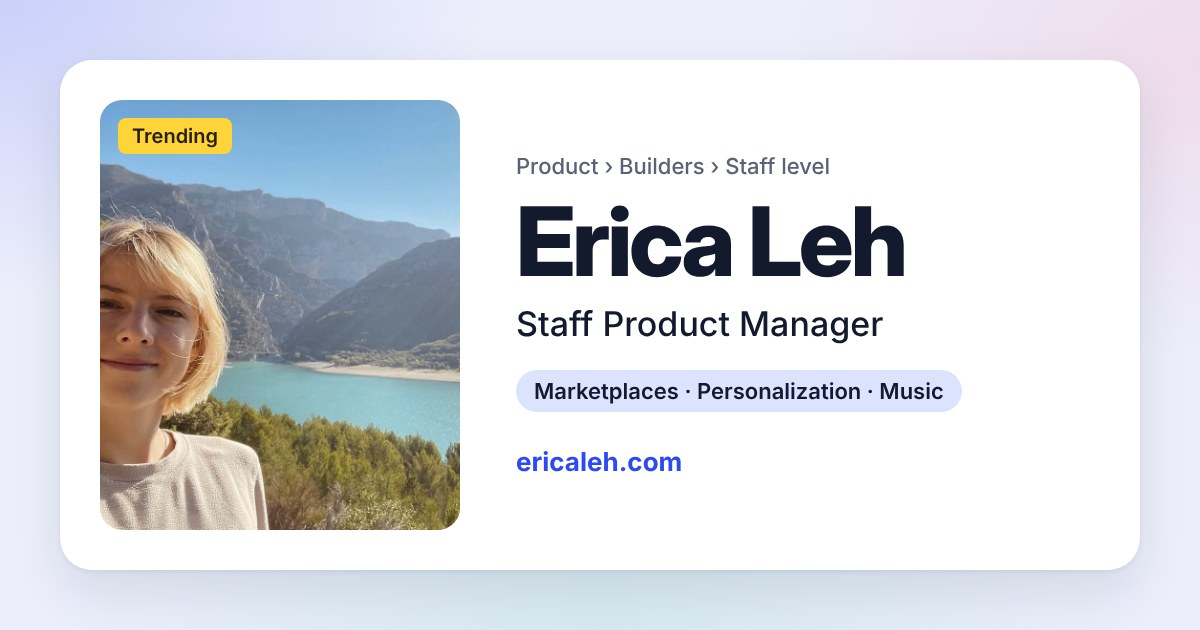
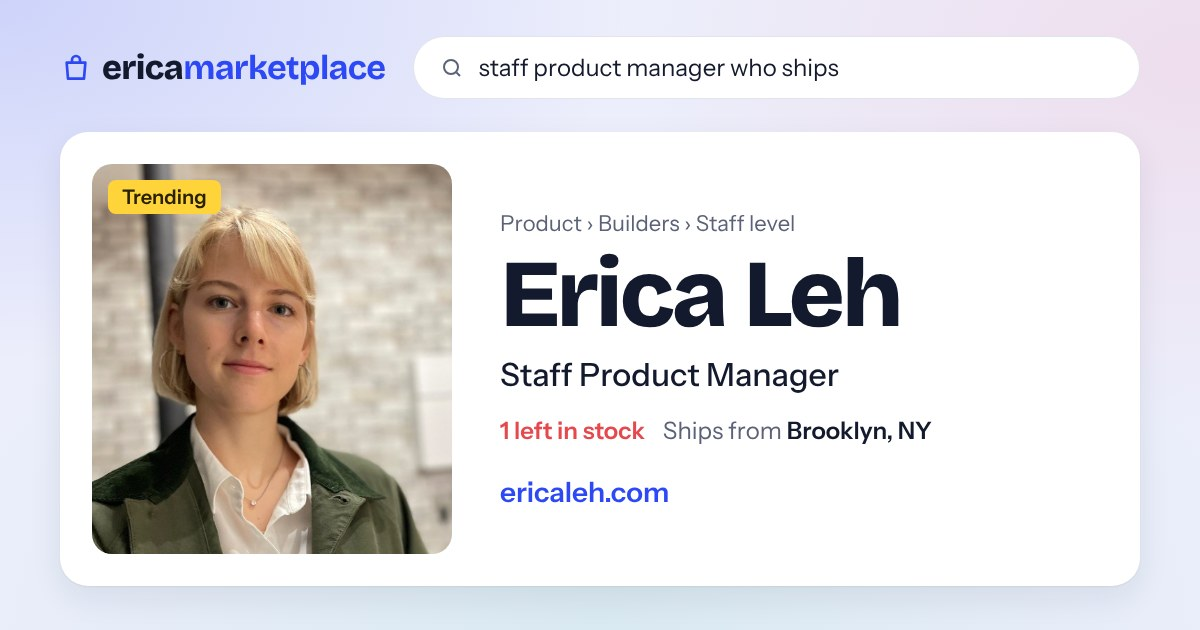
Update site to marketplace design and new social preview image

diff --git a/index.html b/index.html
@@ -58,9 +58,11 @@ h1,h2,h3{font-family:var(--display);text-wrap:balance;margin:0}
 .top{position:sticky;top:env(safe-area-inset-top,0px);z-index:5;background:var(--surface);border-bottom:1px solid var(--line)}
 .top .wrap{display:flex;align-items:center;gap:14px;padding-block:12px}
 .brand{font-family:var(--display);font-weight:800;font-size:20px;letter-spacing:-.02em;white-space:nowrap}
-.brand b{color:var(--accent)}
+.brand{display:flex;align-items:center;gap:6px}
+.brand .bag{flex:none;color:var(--accent)}
+.brand b{color:var(--accent);font-weight:500}
 .search{flex:1;min-width:0;display:flex;align-items:center;gap:8px;background:var(--bg);border:1px solid var(--line);border-radius:999px;padding:8px 14px}
-.search input{flex:1;min-width:0;border:0;background:transparent;font:inherit;color:var(--ink);outline:none}
+.search input{flex:1;min-width:0;text-overflow:ellipsis;cursor:default;border:0;background:transparent;font:inherit;color:var(--ink);outline:none}
 .search svg{flex:none;color:var(--muted)}
 .iconbtn{position:relative;display:grid;place-items:center;width:40px;height:40px;border-radius:999px;border:1px solid var(--line);background:var(--surface)}
 .iconbtn:hover{border-color:var(--ink)}
@@ -82,7 +84,6 @@ h1,h2,h3{font-family:var(--display);text-wrap:balance;margin:0}
 .photo .floating{position:absolute;top:10px;right:10px;display:flex;flex-direction:column;gap:8px}
 .round{width:40px;height:40px;border-radius:999px;border:0;background:var(--surface);display:grid;place-items:center;box-shadow:var(--shadow)}
 .round[aria-pressed="true"] .heart-path{fill:var(--heart);stroke:var(--heart)}
-.round[aria-pressed="true"] .bm-path{fill:var(--accent);stroke:var(--accent)}
 .pop{animation:pop .35s ease}
 @keyframes pop{40%{transform:scale(1.25)}100%{transform:scale(1)}}
 .thumbs{display:flex;gap:8px;margin-top:10px}
@@ -97,7 +98,7 @@ h1,h2,h3{font-family:var(--display);text-wrap:balance;margin:0}
 .meta{display:flex;flex-wrap:wrap;gap:6px 14px;font-size:14px;color:var(--muted)}
 .meta strong{color:var(--ink)}
 .pill{display:inline-flex;align-items:center;gap:6px;border-radius:999px;font-size:12px;font-weight:600;padding:3px 10px;background:var(--tile2);color:var(--ink)}
-.pills{display:inline-flex;flex-wrap:wrap;gap:6px}
+.lowstock{color:var(--heart);font-weight:600}
 .pill.ok{background:var(--tile3)}
 .pill.blue{background:var(--tile1)}
 .pitch{max-width:62ch;margin:0;color:var(--ink);padding-left:18px;display:grid;gap:6px}
@@ -107,12 +108,12 @@ h1,h2,h3{font-family:var(--display);text-wrap:balance;margin:0}
 .specs dd{margin:2px 0 0;font-weight:600;font-variant-numeric:tabular-nums}
 
 .buybox{margin-top:14px;background:var(--surface);border:1px solid var(--line);border-radius:20px;box-shadow:var(--shadow);padding:16px 24px;display:grid;grid-template-columns:auto minmax(0,1fr);align-items:center;gap:10px 36px}
-.strip-main{display:flex;align-items:center;gap:18px;flex-wrap:wrap}
 .buybox .ship{grid-template-columns:repeat(3,minmax(0,1fr));gap:4px 24px}
 .ship>div{display:flex;gap:8px;align-items:flex-start}
 .ship .ico{flex:none;width:16px;height:16px;margin-top:1px;fill:none;stroke:var(--accent);stroke-width:1.8;stroke-linecap:round;stroke-linejoin:round}
 .ship .ico circle{fill:var(--surface)}
-.buybox .sku{grid-column:2;justify-self:end}
+.buybox{grid-template-columns:1fr}
+.buybox .sku{grid-column:1;justify-self:end}
 .price{font-family:var(--display);font-size:24px;font-weight:700;letter-spacing:-.02em}
 .price small{display:block;font-family:var(--body);font-size:13px;font-weight:400;color:var(--muted);letter-spacing:0}
 .stock{color:var(--ok);font-weight:600}
@@ -121,6 +122,10 @@ h1,h2,h3{font-family:var(--display);text-wrap:balance;margin:0}
 .btn.dark{background:var(--ink);color:var(--surface)}
 .btn.dark:hover{filter:none;opacity:.88}
 .ctas .btn{flex:1 1 auto}
+.namerow{display:flex;align-items:center;flex-wrap:wrap;gap:10px 16px}
+.contact{display:flex;gap:8px}
+.iconlink{display:grid;place-items:center;width:36px;height:36px;border-radius:999px;border:1px solid var(--line);background:var(--surface);color:var(--ink);box-sizing:border-box}
+.iconlink:hover{border-color:var(--ink)}
 .btn.ghost:hover{border-color:var(--ink);filter:none}
 .btn.primary{background:var(--accent);color:var(--accent-ink)}
 .btn.secondary{background:var(--deal);color:var(--deal-ink)}
@@ -154,7 +159,8 @@ h1,h2,h3{font-family:var(--display);text-wrap:balance;margin:0}
 .card .art.logo img{max-width:62%;max-height:64px;object-fit:contain;margin-top:14px}
 .card .art.logo .tag{background:rgba(255,255,255,.75);color:#141A2E}
 .card .art.logo{border-bottom:0}
-.card[data-id="w-yale"] .art.logo img{max-height:44px}
+.card[data-id="w-yale"] .art.logo img{max-height:34px}
+.card[data-id="w-groover"] .art.logo img{max-height:48px}
 .card[data-id="p-onset"] .art.logo img{max-height:128px;max-width:80%;margin-top:6px}
 .card[data-id="p-crate"] .art.logo img{max-height:44px;margin-top:18px}
 .card .art{overflow:hidden}
@@ -183,7 +189,14 @@ h1,h2,h3{font-family:var(--display);text-wrap:balance;margin:0}
 .quick{color:var(--accent);font-weight:600;font-size:13px;white-space:nowrap}
 .empty{color:var(--muted);font-size:14px;padding:16px 0}
 
-/* drawer + lists */
+/* chat pop-up */
+.scrim.center{justify-content:center;align-items:center;padding:16px}
+.modal{position:relative;width:min(380px,100%);background:var(--surface);border-radius:20px;box-shadow:var(--shadow);padding:28px 24px 24px;display:grid;gap:16px;text-align:center}
+.modal h3{font-size:24px;letter-spacing:-.02em}
+.modal .close{position:absolute;top:10px;right:10px}
+.modal .ctas .btn{padding:10px 16px}
+
+/* drawer */
 .scrim{position:fixed;inset:0;background:rgba(10,14,28,.45);z-index:20;display:flex;justify-content:flex-end}
 .drawer{width:min(460px,100%);height:100%;background:var(--surface);overflow-y:auto;padding:24px max(20px,env(safe-area-inset-right,0px)) calc(24px + env(safe-area-inset-bottom,0px)) 20px;display:flex;flex-direction:column;gap:14px;animation:slide .22s ease}
 @keyframes slide{from{transform:translateX(30px);opacity:.4}}
@@ -207,12 +220,19 @@ footer .wrap{display:flex;flex-wrap:wrap;justify-content:space-between;gap:10px}
 
 @media (max-width:980px){.listing{grid-template-columns:minmax(0,260px) minmax(0,1fr)}.buybox{grid-template-columns:1fr}.buybox .ship{grid-template-columns:1fr}.buybox .sku{grid-column:1;justify-self:start}}
 @media (max-width:640px){
+  .top .wrap:not(.chips){flex-wrap:wrap;row-gap:10px}
+  .brand{flex:1}
+  .search{order:3;flex:1 1 100%}
   .listing{grid-template-columns:1fr;padding:16px;gap:18px}
   .listing{grid-template-columns:84px minmax(0,1fr);column-gap:14px;row-gap:12px}
   .listing>div:first-child{grid-column:1;grid-row:1 / span 3;align-self:center}
   .info{display:contents}
   .info>*{grid-column:1 / -1}
-  .info>.crumbs,.info>h1,.info>.subtitle{grid-column:2}
+  .info>.crumbs,.info>h1,.info>.namerow,.info>.subtitle{grid-column:2}
+  .namerow{gap:8px;flex-wrap:nowrap}
+  .contact{gap:6px}
+  .iconlink{width:30px;height:30px}
+  .iconlink svg{width:15px;height:15px}
   .info h1{font-size:34px}
   .info .subtitle{font-size:16px}
   .photo{width:84px;max-width:84px;aspect-ratio:1/1;margin:0;overflow:visible;background:none}
@@ -233,19 +253,19 @@ footer .wrap{display:flex;flex-wrap:wrap;justify-content:space-between;gap:10px}
 
 <header class="top">
   <div class="wrap">
-    <div class="brand">erica<b>.</b></div>
-    <div style="flex:1"></div>
-    <button class="iconbtn" id="openSaved" aria-label="Your saved lists">
-      <svg width="18" height="18" viewBox="0 0 24 24" fill="none" stroke="currentColor" stroke-width="2"><path d="M6 3h12v18l-6-4-6 4z"/></svg>
-    </button>
+    <div class="brand"><svg class="bag" width="22" height="22" viewBox="0 0 24 24" fill="none" stroke="currentColor" stroke-width="2" stroke-linecap="round" stroke-linejoin="round" aria-hidden="true"><path d="M5 8h14l-1 12H6z"/><path d="M9 8V6a3 3 0 0 1 6 0v2"/></svg><span>erica<b>marketplace</b></span></div>
+    <label class="search">
+      <svg width="16" height="16" viewBox="0 0 24 24" fill="none" stroke="currentColor" stroke-width="2" aria-hidden="true"><circle cx="11" cy="11" r="7"/><path d="m20 20-3.5-3.5"/></svg>
+      <input type="search" value="staff product manager who ships" readonly aria-label="Search">
+    </label>
   </div>
   <div class="wrap chips" role="toolbar" aria-label="Filter shelves">
     <button class="chip" data-filter="all" aria-pressed="true">All</button>
-    <button class="chip" data-filter="skills" aria-pressed="false">Skills</button>
-    <button class="chip" data-filter="work" aria-pressed="false">Previous experience</button>
-    <button class="chip" data-filter="products" aria-pressed="false">Work projects</button>
+    <button class="chip" data-filter="products" aria-pressed="false">Projects you might like</button>
+    <button class="chip" data-filter="skills" aria-pressed="false">Top-rated skills</button>
+    <button class="chip" data-filter="work" aria-pressed="false">Product history</button>
     <button class="chip" data-filter="projects" aria-pressed="false">Side projects</button>
-    <button class="chip" data-filter="hobbies" aria-pressed="false">Hobbies & interests</button>
+    <button class="chip" data-filter="hobbies" aria-pressed="false">Bonus features</button>
   </div>
 </header>
 
@@ -261,43 +281,38 @@ footer .wrap{display:flex;flex-wrap:wrap;justify-content:space-between;gap:10px}
           <button class="round" id="heroHeart" aria-pressed="false" aria-label="Like Erica's profile">
             <svg width="20" height="20" viewBox="0 0 24 24"><path class="heart-path" d="M12 20s-7-4.4-7-10a4 4 0 0 1 7-2.6A4 4 0 0 1 19 10c0 5.6-7 10-7 10z" fill="none" stroke="currentColor" stroke-width="2"/></svg>
           </button>
-          <button class="round" id="heroSave" aria-pressed="false" aria-label="Save Erica to a list">
-            <svg width="20" height="20" viewBox="0 0 24 24"><path class="bm-path" d="M6 3h12v18l-6-4-6 4z" fill="none" stroke="currentColor" stroke-width="2"/></svg>
-          </button>
         </div>
       </div>
     </div>
 
     <div class="info">
       <div class="crumbs">Product › Builders › Staff level</div>
-      <h1>Erica Leh</h1>
+      <div class="namerow">
+        <h1>Erica Leh</h1>
+        <div class="contact">
+          <a class="iconlink" href="mailto:eleh915@gmail.com" aria-label="Email me" title="Email me"><svg width="16" height="16" viewBox="0 0 24 24" fill="none" stroke="currentColor" stroke-width="2.2" aria-hidden="true"><rect x="3" y="5" width="18" height="14" rx="2"/><path d="m3 7 9 6 9-6"/></svg></a>
+          <a class="iconlink" href="https://linkedin.com/in/ericaleh" target="_blank" rel="noopener" aria-label="LinkedIn" title="LinkedIn"><svg width="18" height="18" viewBox="0 0 24 24" aria-hidden="true"><rect width="24" height="24" rx="4" fill="#0A66C2"/><path fill="#fff" d="M6.94 5.5a1.69 1.69 0 1 1 0 3.38 1.69 1.69 0 0 1 0-3.38zM5.5 10h2.88v8.5H5.5zM10.2 10h2.76v1.16h.04c.38-.73 1.32-1.5 2.73-1.5 2.92 0 3.46 1.92 3.46 4.42v4.42h-2.88v-3.92c0-.94-.02-2.14-1.3-2.14-1.31 0-1.51 1.02-1.51 2.07v3.99H10.2z"/></svg></a>
+        </div>
+      </div>
       <div class="subtitle">Staff Product Manager</div>
       <div class="meta">
-        <span class="pills"><span class="pill blue">Marketplaces</span><span class="pill blue">Personalization</span><span class="pill blue">Music</span></span>
+        <span class="lowstock">1 left in stock</span>
         <span>Ships from <strong>Brooklyn, NY</strong></span>
       </div>
       <ul class="pitch">
-        <li>Track record of launching new revenue streams, driving activation and retention, and leading product strategy in a data-driven and research-focused manner</li>
-        <li>Experience coding and creating prototypes and apps in Python, PostgreSQL, R, C, Claude Code, Cursor, and Figma</li>
+        <li>Track record of launching new revenue streams and leading product strategy in a data-driven and research-focused manner</li>
+        <li>Analysis and products reaching 400M+ users</li>
+        <li>Experience coding and creating prototypes/apps in Claude Code, Figma, Cursor, Python, PostgreSQL, R, and C</li>
       </ul>
       <dl class="specs">
         <div><dt>Experience</dt><dd>11 years · 3 companies</dd></div>
-        <div><dt>Users reached</dt><dd>400M+ at Spotify</dd></div>
-        <div><dt>Builds with</dt><dd>Claude Code, Cursor, Figma, Python, SQL</dd></div>
         <div><dt>Education</dt><dd>Yale BA, magna cum laude</dd></div>
       </dl>
     </div>
 
   </section>
 
-  <aside class="buybox" aria-label="Contact">
-    <div class="strip-main">
-      <div class="price">Let's talk</div>
-      <div class="ctas">
-        <a class="btn dark" href="mailto:eleh915@gmail.com"><svg width="15" height="15" viewBox="0 0 24 24" fill="none" stroke="currentColor" stroke-width="2.2" aria-hidden="true"><rect x="3" y="5" width="18" height="14" rx="2"/><path d="m3 7 9 6 9-6"/></svg>Email me</a>
-        <a class="btn ghost" href="https://linkedin.com/in/ericaleh" target="_blank" rel="noopener">LinkedIn<span aria-hidden="true">↗</span></a>
-      </div>
-    </div>
+  <aside class="buybox" aria-label="Product details">
       <div class="ship">
         <div><svg class="ico" viewBox="0 0 24 24" aria-hidden="true"><path d="M3 7.5 12 3l9 4.5v9L12 21l-9-4.5z"/><path d="M3 7.5 12 12l9-4.5M12 12v9"/></svg><span><b>Delivery:</b> arrives with prototypes &amp; PRDs in hand</span></div>
         <div><svg class="ico" viewBox="0 0 24 24" aria-hidden="true"><path d="M4 9h13v5a5 5 0 0 1-5 5H9a5 5 0 0 1-5-5z"/><path d="M17 10.5h1.5a2.5 2.5 0 0 1 0 5H16.5M8 3.5v2.5M12 3.5v2.5"/></svg><span><b>Care instructions:</b> does best in a collaborative environment and when watered with coffee</span></div>
@@ -307,30 +322,30 @@ footer .wrap{display:flex;flex-wrap:wrap;justify-content:space-between;gap:10px}
   </aside>
 
   <section class="shelf" id="products" data-shelf="products">
-    <div class="shelf-head"><div><h2>Projects you might like</h2></div>
+    <div class="shelf-head"><div><h2>Erica's projects you might like</h2></div>
       <div class="arrows"><button class="iconbtn" data-scroll="-1" aria-label="Scroll left">‹</button><button class="iconbtn" data-scroll="1" aria-label="Scroll right">›</button></div></div>
     <div class="row"></div>
   </section>
 
   <section class="shelf" id="skills" data-shelf="skills">
-    <div class="shelf-head"><div><h2>Discover skills</h2></div>
+    <div class="shelf-head"><div><h2>Erica's top-rated skills</h2></div>
       <div class="arrows"><button class="iconbtn" data-scroll="-1" aria-label="Scroll left">‹</button><button class="iconbtn" data-scroll="1" aria-label="Scroll right">›</button></div></div>
     <div class="row"></div>
   </section>
 
   <section class="shelf" id="work" data-shelf="work">
-    <div class="shelf-head"><div><h2>Previous experience</h2></div>
+    <div class="shelf-head"><div><h2>Erica's product history</h2></div>
       <div class="arrows"><button class="iconbtn" data-scroll="-1" aria-label="Scroll left">‹</button><button class="iconbtn" data-scroll="1" aria-label="Scroll right">›</button></div></div>
     <div class="row"></div>
   </section>
 
   <section class="shelf" id="projects" data-shelf="projects">
-    <div class="shelf-head"><div><h2>Built after hours</h2></div>
+    <div class="shelf-head"><div><h2>Built by Erica after hours</h2></div>
       <div class="arrows"><button class="iconbtn" data-scroll="-1" aria-label="Scroll left">‹</button><button class="iconbtn" data-scroll="1" aria-label="Scroll right">›</button></div></div>
     <div class="row"></div>
   </section>
   <section class="shelf" id="hobbies" data-shelf="hobbies">
-    <div class="shelf-head"><div><h2>Hobbies & interests</h2></div>
+    <div class="shelf-head"><div><h2>Erica's bonus features & interests</h2></div>
       <div class="arrows"><button class="iconbtn" data-scroll="-1" aria-label="Scroll left">‹</button><button class="iconbtn" data-scroll="1" aria-label="Scroll right">›</button></div></div>
     <div class="row"></div>
   </section>
@@ -347,7 +362,7 @@ const ITEMS = [
    bullets:["Moved the company from purely transactional to recurring revenue with Groover+","Introduced 0-to-1 features like Your Release Plan, Hype, and Charts"]},
   {id:"s-exp",shelf:"skills",tag:"Technical",art:"A/B",tone:"tile2",title:"Experimentation",desc:"Helped build and support Groover's A/B testing infrastructure from scratch",built:true,
    bullets:["Led experimentation for Discover Weekly, Release Radar, and Radio at Spotify","Piloted A/B segment tests for global advertisers at AppNexus"]},
-  {id:"s-data",shelf:"skills",tag:"Technical",art:"SELECT *",tone:"tile6",title:"Data Analysis",desc:"Brings a quantitatively minded approach and 7 years of experience as a data scientist/analyst to product work",built:true,
+  {id:"s-data",shelf:"skills",tag:"Technical",art:"SELECT *",tone:"tile6",title:"Data analysis",desc:"Brings a quantitatively minded approach and 7 years of experience as a data scientist/analyst to product work",built:true,
    bullets:["7 years as a data scientist and analyst at Spotify and AppNexus","Contributed to Groover's data warehouse and deployed production tables","Works hands-on in SQL, Python, and R"]},
   {id:"s-proto",shelf:"skills",tag:"Technical",art:"&lt;/&gt;",tone:"tile5",title:"AI-assisted prototyping",desc:"Builds AI prototypes and runs user research with them",built:true,
    bullets:["Builds working prototypes with Claude Code, Cursor, and Figma Make","Puts prototypes in front of users to test assumptions before engineering time is spent"]},
@@ -357,7 +372,7 @@ const ITEMS = [
    bullets:["Owned discovery and recommendation products in Spotify Personalization","Scoped and tested playlist features to help artists reach broader audiences"]},
   {id:"s-research",shelf:"skills",tag:"Research",art:"Why?",tone:"tile1",title:"User research",desc:"Conducted hundreds of user interviews to understand core needs and test usability & understanding",built:false,
    bullets:[]},
-  {id:"s-psych",shelf:"skills",tag:"Research",art:"Why?",tone:"tile5",title:"Human Psychology",desc:"Completed the Product Psychology Masterclass, focused on user behaviors, gap identification, and ethical strategy",built:false,
+  {id:"s-psych",shelf:"skills",tag:"Research",art:"Why?",tone:"tile5",title:"Human psychology",desc:"Completed the Product Psychology Masterclass, focused on user behaviors, gap identification, and ethical strategy",built:false,
    bullets:[]},
   {id:"s-i18n",shelf:"skills",tag:"Strategy",art:"20+",tone:"tile2",title:"Internationalization",desc:"Supported international expansion to new markets with automatic language translation",built:false,
    bullets:["Supported Groover's expansion into new markets","Rolled out automatic language translation across the product"]},
@@ -379,11 +394,11 @@ const ITEMS = [
   // projects (year shown before the tag once filled in)
   {id:"p-crate",shelf:"projects",year:"",tag:"2026",art:"Crate✓",tone:"tile4",title:"CrateCheck",desc:"Built website & marketing materials for an integration that helps DJs legally download the music they love faster",built:true,bullets:[]},
   {id:"p-onset",shelf:"projects",year:"",tag:"2025 – 2026",art:"Onset",tone:"tile2",title:"Onset Festival",desc:"Founded and ran a 3-day music and aerial arts festival in the Berkshires, with more than two dozen artists & performers",built:true,bullets:[]},
-  {id:"p-viz",shelf:"projects",year:"",tag:"2023",art:"∿∿∿",tone:"tile6",title:"Spotify Liked Songs Visualizer",desc:"Built an app that helps you better understand attributes of your listening on Spotify",built:true,bullets:[]},
+  {id:"p-viz",shelf:"projects",year:"",tag:"2023",art:"∿∿∿",tone:"tile6",title:"Spotify Liked Songs visualizer",desc:"Built an app that helps you better understand attributes of your listening on Spotify",built:true,bullets:[]},
   {id:"p-snap",shelf:"projects",year:"",tag:"2011",art:"$ → kcal",tone:"tile3",title:"SNAP grocery planner",desc:"Helps SNAP recipients budget groceries to get the most nutrition from their benefits",built:true,bullets:[]},
 
   // hobbies
-  {id:"h-aerial",shelf:"hobbies",tag:"",art:"Aerial",tone:"tile5",title:"Aerial Acrobatics",desc:"Trains and performs aerial arts, including silks and lyra; organizes aerial events in NY and MA",built:false,bullets:[]},
+  {id:"h-aerial",shelf:"hobbies",tag:"",art:"Aerial",tone:"tile5",title:"Aerial acrobatics",desc:"Trains and performs aerial arts, including silks and lyra; organizes aerial events in NY and MA",built:false,bullets:[]},
   {id:"h-music",shelf:"hobbies",tag:"",art:"♫",tone:"tile4",title:"Music",desc:"Produces music, plays guitar and electric violin, and DJs",built:false,bullets:[]},
   {id:"h-design",shelf:"hobbies",tag:"",art:"Aa",tone:"tile6",title:"Design",desc:"Loves building visual and interface design, set design, and motion graphics",built:false,bullets:[]},
 ];
@@ -414,7 +429,6 @@ const store = {
   set(k,v){try{localStorage.setItem(k,JSON.stringify(v))}catch(e){}}
 };
 let likes = new Set(store.get("el-likes-v2",[]));
-let lists = store.get("el-lists-v2",{});
 const PROFILE = {id:"profile",title:"Erica Leh, Staff Product Manager"};
 const byId = id => id==="profile"?PROFILE:ITEMS.find(i=>i.id===id);
 
@@ -494,7 +508,18 @@ function toggleLike(id,btn){
   const on=likes.has(id);
   document.querySelectorAll(id==="profile"?"#heroHeart":`.card[data-id="${id}"] .like`).forEach(b=>b.setAttribute("aria-pressed",on));
   bump(btn);
-  if(on) toast(id==="profile"?"Liked. Good taste.":`Liked ${byId(id).title}`);
+  if(on) chatPopup();
+}
+function chatPopup(){
+  layer.innerHTML=`<div class="scrim center"><div class="modal" role="dialog" aria-modal="true" aria-labelledby="chatTitle">
+    <button class="iconbtn close" aria-label="Close">✕</button>
+    <h3 id="chatTitle">See something you like? Let's chat!</h3>
+    <div class="ctas"><a class="btn dark" href="mailto:eleh915@gmail.com"><svg width="15" height="15" viewBox="0 0 24 24" fill="none" stroke="currentColor" stroke-width="2.2" aria-hidden="true"><rect x="3" y="5" width="18" height="14" rx="2"/><path d="m3 7 9 6 9-6"/></svg>Email me</a>
+        <a class="btn ghost" href="https://linkedin.com/in/ericaleh" target="_blank" rel="noopener">LinkedIn<span aria-hidden="true">↗</span></a></div>
+  </div></div>`;
+  const scrim=layer.firstChild;
+  scrim.addEventListener("click",e=>{if(e.target===scrim||e.target.closest(".close"))closeDrawer()});
+  scrim.querySelector(".ctas a")?.focus();
 }
 document.getElementById("heroHeart").setAttribute("aria-pressed",likes.has("profile"));
 document.getElementById("heroHeart").addEventListener("click",e=>toggleLike("profile",e.currentTarget));
@@ -505,16 +530,6 @@ document.querySelector("main").addEventListener("click",e=>{
   if(like){e.preventDefault();e.stopPropagation();toggleLike(card.dataset.id,like);return}
   if(e.target.closest("[data-more]") || card.closest("#skills")) openQuick(card.dataset.id);
 });
-
-// lists
-function savedTotal(){return new Set(Object.values(lists).flat()).size}
-function syncSaved(){
-  
-  const inAny=Object.values(lists).some(a=>a.includes("profile"));
-  document.getElementById("heroSave").setAttribute("aria-pressed",inAny);
-  store.set("el-lists-v2",lists);
-}
-syncSaved();
 
 const layer=document.getElementById("layer");
 function openDrawer(html){
@@ -527,36 +542,6 @@ function closeDrawer(){layer.innerHTML=""}
 document.addEventListener("keydown",e=>{
   if(e.key==="Escape"){closeDrawer();currentQuick=null}
   if(layer.querySelector(".qnav")&&(e.key==="ArrowRight"||e.key==="ArrowLeft")){e.preventDefault();stepQuick(e.key==="ArrowRight"?1:-1)}
-});
-
-function saveDrawer(id){
-  const it=byId(id);
-  const opts=Object.keys(lists).map((name,i)=>`<label class="listopt" for="l${i}"><input type="checkbox" id="l${i}" data-list="${name}" ${lists[name].includes(id)?"checked":""}><span><strong>${name}</strong><br><small style="color:var(--muted)">${lists[name].length} saved</small></span></label>`).join("");
-  openDrawer(`<button class="iconbtn close" aria-label="Close">✕</button>
-    <h3>Save to a list</h3><p style="margin:0;color:var(--muted)">${it.title}</p>
-    <div style="display:grid;gap:8px">${opts||`<div class="empty" style="padding:0">No lists yet. Name one below to save Erica to it.</div>`}</div>
-    <div class="newlist"><input id="newList" placeholder="New list name" maxlength="40"><button class="btn primary" id="mkList" style="padding:8px 16px">Create</button></div>`);
-  layer.querySelectorAll("[data-list]").forEach(cb=>cb.addEventListener("change",()=>{
-    const arr=lists[cb.dataset.list];
-    if(cb.checked){if(!arr.includes(id))arr.push(id);toast(`Saved to ${cb.dataset.list}`)}
-    else lists[cb.dataset.list]=arr.filter(x=>x!==id);
-    syncSaved(); if(id==="profile")bump(document.getElementById("heroSave"));
-  }));
-  const mk=()=>{const v=document.getElementById("newList").value.trim(); if(!v)return; if(!lists[v])lists[v]=[]; if(!lists[v].includes(id))lists[v].push(id); syncSaved(); toast(`Created "${v}" and saved`); saveDrawer(id)};
-  document.getElementById("mkList").addEventListener("click",mk);
-  document.getElementById("newList").addEventListener("keydown",e=>{if(e.key==="Enter")mk()});
-}
-document.getElementById("heroSave").addEventListener("click",()=>saveDrawer("profile"));
-
-document.getElementById("openSaved").addEventListener("click",()=>{
-  const names=Object.keys(lists);
-  const body=!names.length?`<div class="empty">No lists yet. Use the bookmark on Erica's card to start one.</div>`:names.map(n=>`<div><h4 style="margin:12px 0 4px;font-family:var(--display)">${n}</h4>${
-    lists[n].length?lists[n].map(id=>`<div class="saved-item"><span>${byId(id).title}</span><button class="quick" style="background:none;border:0" data-rm="${n}|${id}">Remove</button></div>`).join(""):`<div class="empty">Nothing here yet.</div>`}</div>`).join("");
-  const liked=[...likes].map(id=>byId(id)).filter(Boolean);
-  openDrawer(`<button class="iconbtn close" aria-label="Close">✕</button><h3>Your lists</h3>${body}
-    <div><h4 style="margin:12px 0 4px;font-family:var(--display)">Liked</h4>${liked.length?liked.map(i=>`<div class="saved-item"><span>${i.title}</span></div>`).join(""):`<div class="empty">Tap a heart to like something.</div>`}</div>
-    <p style="font-size:12px;color:var(--muted)">Lists are saved in this browser only.</p>`);
-  layer.querySelectorAll("[data-rm]").forEach(b=>b.addEventListener("click",()=>{const [n,id]=b.dataset.rm.split("|");lists[n]=lists[n].filter(x=>x!==id);syncSaved();document.getElementById("openSaved").click()}));
 });
 
 function quickIds(){
